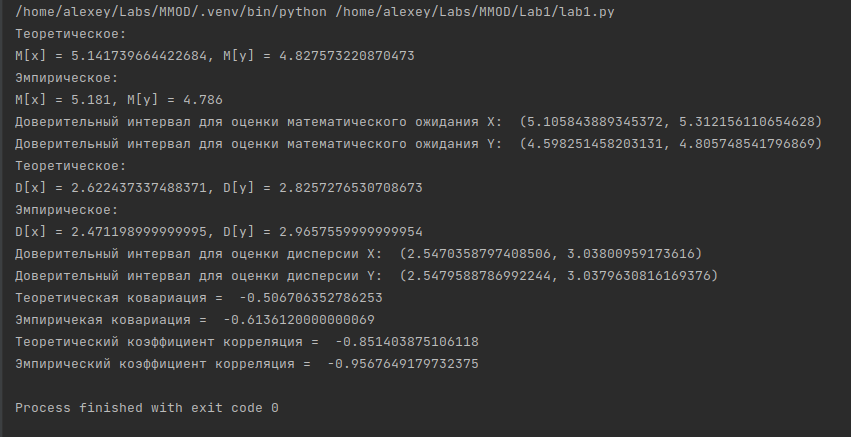
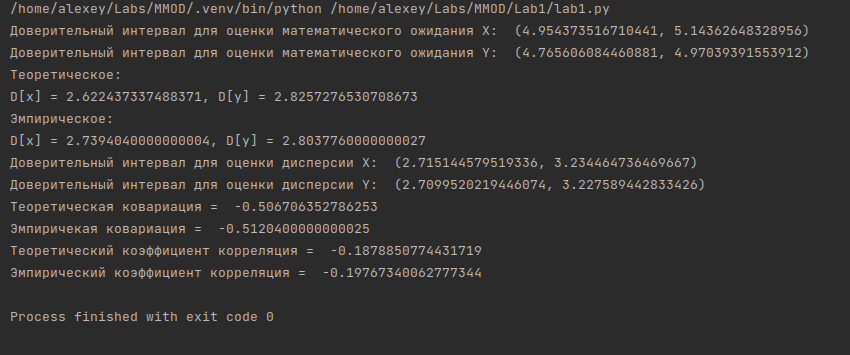
Refactoring

Changed region(s): [[0.0, 0.0, 0.9482, 0.9606], [0.6118, 0.2479, 0.9788, 0.3408]]

diff --git a/Lab1/lab1.py b/Lab1/lab1.py
@@ -189,9 +189,9 @@ def covariation(matrix, x_values, y_values):
 def correlation_coeff(matrix, x_values, y_values, amount=1000):
     gen = DiscreteSVGenerator(matrix, x_values, y_values)
     samples = np.array([next(gen) for _ in range(amount)])
-    d1 = np.var([x[0] for x in samples], ddof=1)
-    d2 = np.var([x[1] for x in samples], ddof=1)
-    return covariation(matrix, x_values, y_values) / np.sqrt(np.prod((d1, d2)))
+    x_samples = np.var([x_values[x[0]] for x in samples], ddof=1)
+    y_samples = np.var([y_values[y[1]] for y in samples], ddof=1)
+    return covariation(matrix, x_values, y_values) / np.sqrt(np.prod((x_samples, y_samples)))
 
 
 def calculate_empiric_and_theoretic(matrix, x, y, amount=1000):
